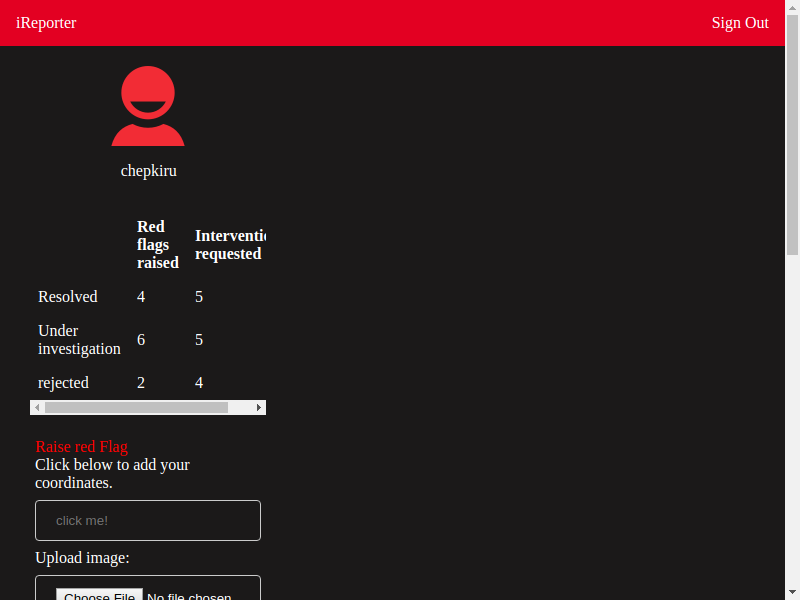
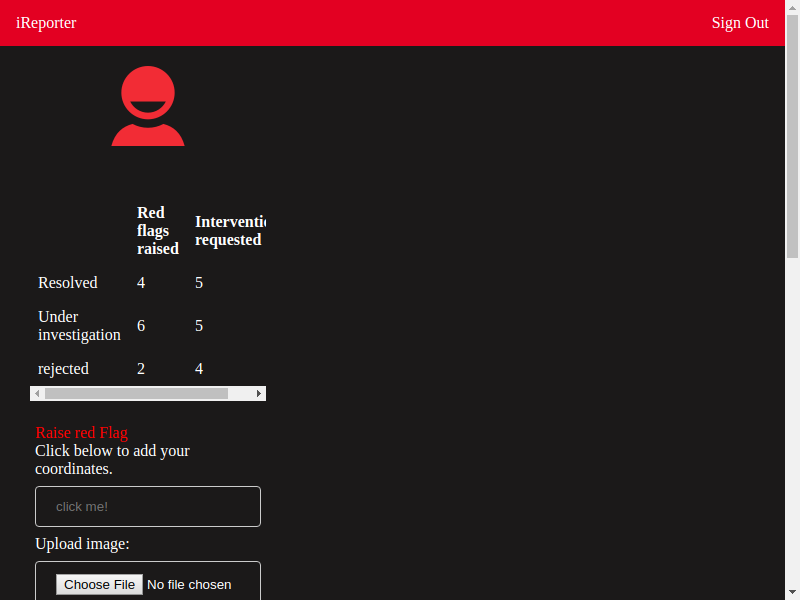
enable file upload

Changed region(s): [[0.0312, 0.45, 0.3438, 1.0], [0.1562, 0.33, 0.3438, 0.51], [0.1562, 0.27, 0.2188, 0.3]]

diff --git a/UI/profile.html b/UI/profile.html
@@ -57,10 +57,12 @@
         <input type="text" name="location" id="add_location" placeholder="click me!">
 
         <label for="red_Flag_pic">Upload image:</label>
-        <input type="file" id="images" name="pic" accept="image/*">
+        <input type="file" id="images" name="files[]" multiple accept="image/*">
+        <output id="listImages"></output><br>
 
         <label for="red_flag_video">Upload video:</label>
-        <input type="file" id="videos" name="video" accept="video/*">
+        <input type="file" id="videos" name="files[]" multiple accept="video/*">
+        <output id="listVideos"></output><br>
 
         <label for="red_flag_comment">Comment:</label>
         <input type="text" id="redflag" name="Redflag" placeholder="Register your issue...">
@@ -78,9 +80,11 @@
               
         <label for="intervention_pic">Upload image:</label>
         <input type="file" id="imagesIntervention"name="pic" accept="image/*">
+        <output id="listImagesIntervention"></output><br>
 
         <label for="intervention_video">Upload video:</label>
         <input type="file" id="videosIntervention" name="video" accept="video/*">
+        <output id="listVideosIntervention"></output><br>
 
         <label for="intervention_comment">Comment:</label>
         <input type="text" id="intervention" name="intervention" placeholder="Register your issue...">

diff --git a/UI/profile.js b/UI/profile.js
@@ -77,3 +77,33 @@ function showPosition2(position) {
 }
 
 intervention.addEventListener("click", addLocation2, false);
+
+
+function handleFileSelect(event){
+    var files = event.target.files;
+    // console.log(files)
+    // loop through the FileList and render the images as thumbnails
+    for (var i=0, f; f = files[i]; i++){
+        var reader = new FileReader();
+
+        // capture file information
+        reader.onload = (function(theFile){
+            return function(e){
+                var span = document.createElement('span');
+                span.innerHTML = ['<img class="thumb" src="', e.target.result,
+                            '" title="', escape(theFile.name), '"/>'].join('');
+                var x = document.getElementById(event.target.id).nextElementSibling;
+                x.insertBefore(span, null);
+            }
+        })(f);
+
+        reader.readAsDataURL(f);
+    }
+};
+
+
+
+document.getElementById('images').addEventListener('change', handleFileSelect, false);
+document.getElementById('videos').addEventListener('change', handleFileSelect, false);
+document.getElementById('imagesIntervention').addEventListener('change', handleFileSelect, false);
+document.getElementById('videosIntervention').addEventListener('change', handleFileSelect, false);

diff --git a/UI/admin.html b/UI/admin.html
@@ -50,34 +50,9 @@
         </div>
         <br>
       </div>
-      <div id="past_records">
-        <div id="summary">
-          <div id="redFlagsRaised">
-            <p>Red flags raised:</p>
-            <span id="redFlags">40</span>
-          </div>
-          <div id="interventionsRequestedSummary">
-            <p>interventions:</p>
-            <span id="interventionsAsked">40</span>
-          </div>
-          <div id="resolvedIssues">
-            <p>issues resolved:</p>
-            <span id="done">40</span>
-          </div>
-          <div id="pendingIssues">
-            <p>pending issues:</p>
-            <span id="toBeSorted">40</span>
-          </div>
-          <div id="rejectedIssues">
-            <p>rejected issues:</p>
-            <span id="thrownOut">40</span>
-          </div>
-          <div id="totalIssuesRaised">
-            <p>total issues:</p>
-            <span id="totalRaised">80</span>
-          </div>
-        </div>
-        <div id="past_records"></div>
+   </div>
+   <div id="past_records"></div>
+        
   <script src="admin.js"></script>
   <script src="edit.js"></script>
 </body>

diff --git a/test/test.js b/test/test.js
@@ -2,7 +2,6 @@ const puppeteer = require('puppeteer');
 
 let browser, page;
 
-
 beforeEach(async () => {
     browser = await puppeteer.launch({
         headless: true
@@ -13,9 +12,7 @@ beforeEach(async () => {
 afterEach(async () => {
     await browser.close();
 });
-
-    
-    
+ 
 it ('should contain header', async() => {
     await page.goto('https://valerierono.github.io/iReporter-Valerie/UI/index.html');
     await page.waitFor('#main_content');

diff --git a/UI/styles.css b/UI/styles.css
@@ -269,6 +269,13 @@ th, td {
      padding: 5px;
      text-align: center;
  }
+
+ .thumb {
+    height: 75px;
+    border: 1px solid #000;
+    margin: 10px 5px 0 0;
+  }
+  
 @media screen and (max-width: 600px){
     ul.navbar li.right, 
     ul.navbar li {float: none;}

diff --git a/UI/redflag.js b/UI/redflag.js
@@ -1,7 +1,5 @@
 // create incident fetch method
 document.getElementById('redFlagForm').addEventListener('submit', createRedflag)
-
-
     
 function createRedflag(event){
     event.preventDefault();
